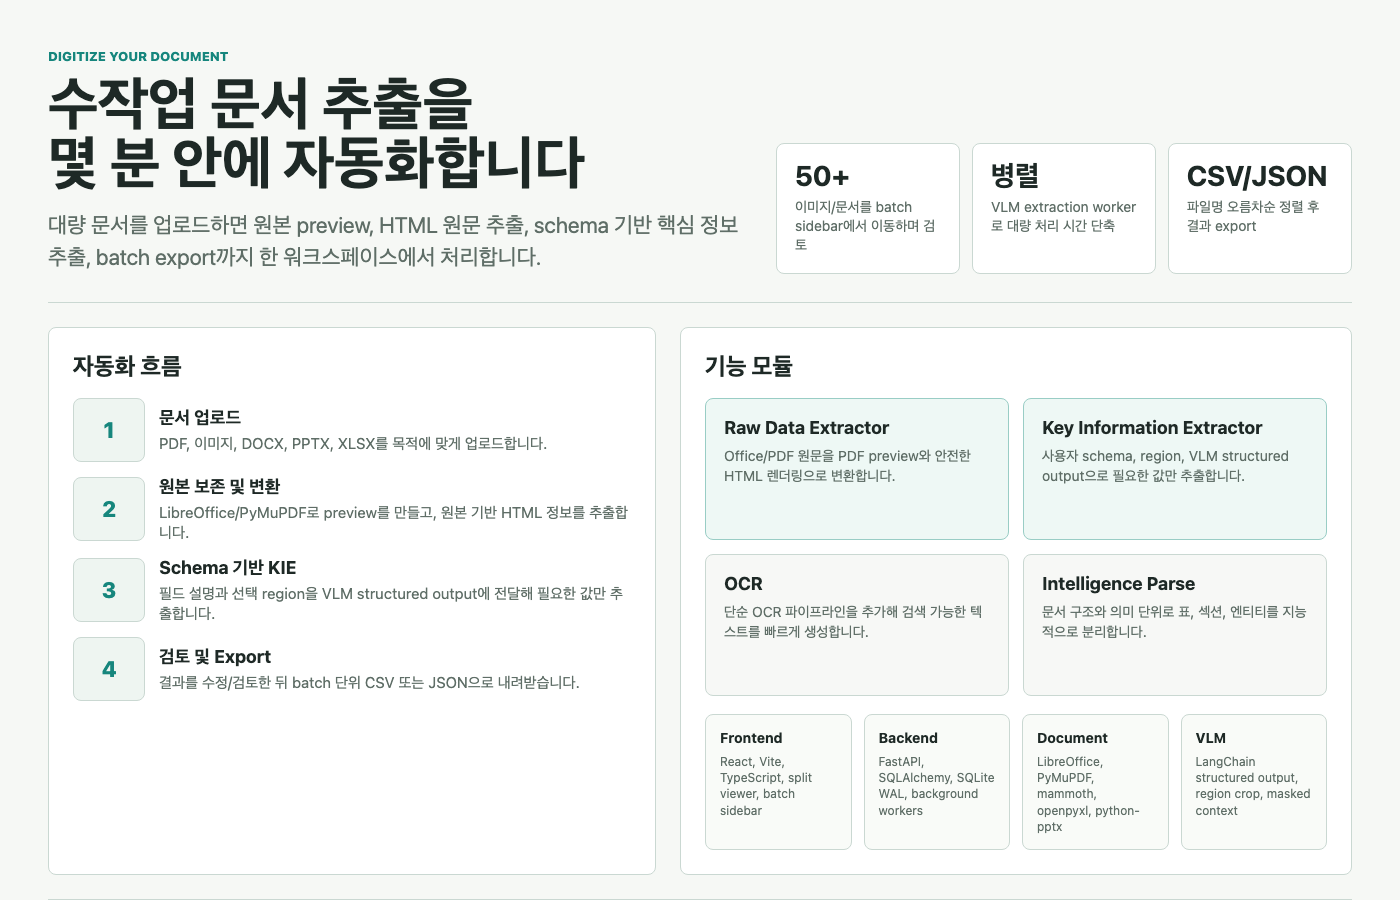
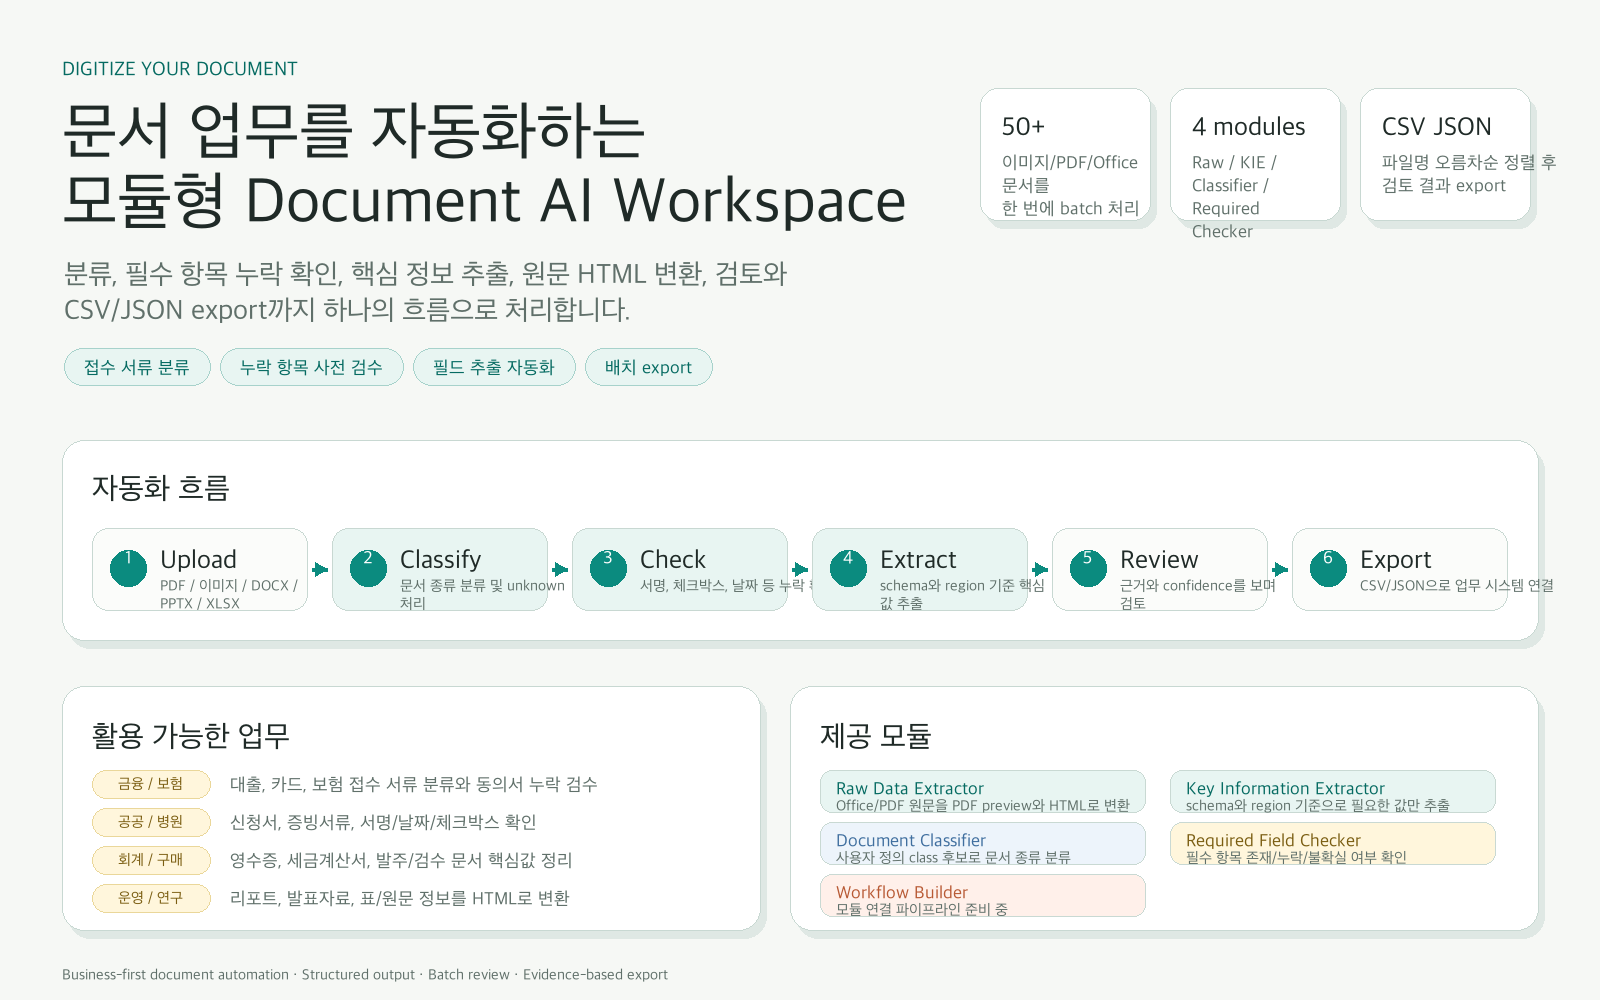
Refresh README business overview

diff --git a/README.md b/README.md
@@ -1,22 +1,45 @@
 <div align="center">
   <h1>Digitize Your Document</h1>
-  <p><b>대용량 문서에서 사람이 반복해서 찾던 값을 업로드, 추출, 검토, 정렬 export까지 자동화하는 워크스페이스</b></p>
+  <p><b>반복적인 문서 접수, 분류, 누락 검수, 핵심 정보 추출, 결과 정리를 한 화면에서 자동화합니다.</b></p>
   <p>
-    <code>React</code>
-    <code>Vite</code>
-    <code>TypeScript</code>
-    <code>FastAPI</code>
-    <code>SQLite</code>
-    <code>LangChain</code>
-    <code>LibreOffice</code>
-    <code>PyMuPDF</code>
+    <code>문서 접수 자동화</code>
+    <code>필수 항목 누락 검수</code>
+    <code>문서 종류 분류</code>
+    <code>핵심 정보 추출</code>
+    <code>배치 CSV/JSON export</code>
   </p>
 </div>
 
 ![Digitize Your Document Overview](assets/readme_overview.png)
 
+## 어디에 활용할 수 있나
+
+대량 문서를 사람이 열어 보고, 어떤 문서인지 나누고, 비어 있는 항목을 확인하고, 필요한 값을 엑셀로 옮기는 업무에 바로 적용할 수 있습니다.
+
+| 활용 영역 | 자동화할 수 있는 일 | 기대 효과 |
+| --- | --- | --- |
+| 금융/보험 접수 | 신청서, 동의서, 신분/소득 증빙 분류와 필수 서명/체크박스 누락 확인 | 접수 반려와 재요청 시간을 줄입니다. |
+| 공공/병원/교육 서류 | 신청서 유형 분류, 작성일/성명/서명/첨부 여부 확인 | 담당자 검수 대기열을 빠르게 정리합니다. |
+| 회계/구매/정산 | 영수증, 세금계산서, 발주서, 검수 문서의 핵심값 추출 | 수기 입력과 파일명별 취합 작업을 줄입니다. |
+| 운영/연구 문서 | PDF, PPTX, DOCX, XLSX 원문을 HTML로 변환하고 필요한 표/문장을 확인 | 검색 가능한 내부 자료화와 검토 속도를 높입니다. |
+| 대량 백오피스 처리 | 50장 이상 파일을 한 번에 업로드하고 결과를 검수/export | 반복 클릭과 엑셀 정리 시간을 줄입니다. |
+
+## 업무 자동화 범위
+
+Digitize Your Document를 사용하면 대량 문서에서 수작업으로 값을 확인하던 업무를 몇 분 단위의 자동 처리로 바꿀 수 있습니다.
+
+| 자동화 대상 | 처리 방식 | 결과 |
+| --- | --- | --- |
+| 대량 이미지/PDF에서 특정 값 추출 | 사용자 schema + 선택 region + VLM structured output | 파일명 기준 정렬 CSV/JSON |
+| 문서 종류 분류 | 사용자가 정의한 class 후보 + unknown 허용 | 파일별 class, confidence, evidence |
+| 필수 항목 누락 확인 | checklist + evidence type + optional region | complete/incomplete/needs_review |
+| DOCX/PPTX/PDF 원문 확인 | LibreOffice/PyMuPDF preview + Python parser | PDF preview + HTML 원문 |
+| 50장 이상 반복 검토 | Batch sidebar + progress polling + result review | 항목별 검토와 batch export |
+| 손글씨/복잡한 레이아웃 보조 | full page context + masked page + enlarged crop | region 기반 집중 추출 |
+
 ## 2026-05-21 변경 사항
 
+- README 상단 이미지를 최신 모듈 구조와 비즈니스 활용 중심으로 교체했습니다.
 - GitHub에 올라가는 문서를 `README.md`, `DEVELOPMENT_DEFINITION.md`, `ERROR_NOTE.md` 중심으로 정리했습니다. 로컬 이해용 HTML과 디자인 기록은 저장소에 올리지 않습니다.
 - `.gitignore`를 default-deny 방식으로 바꿨습니다. 모든 파일을 먼저 무시하고, 제품 실행에 필요한 source/config/docs/assets만 `!` allowlist로 추적합니다.
 - 표로 표현 가능한 설정/결과 UI는 KIE field table 스타일로 통일합니다. Document Classifier의 class 후보, Required Field Checker의 checklist item, 결과/review table도 같은 문법을 따릅니다.
@@ -34,21 +57,6 @@
 - Batch progress polling은 active batch를 1초 간격으로 직접 조회하고, API cache를 끄도록 보강했습니다.
 - SQLite는 WAL과 busy timeout을 적용해 batch worker와 polling read가 겹칠 때의 잠금 대기를 줄였습니다.
 - README와 개발정의서를 “업무 자동화 가치 → 기술 세부사항” 흐름으로 재정리했습니다.
-
-## 할 수 있는 일
-
-Digitize Your Document를 사용하면 대량 문서에서 수작업으로 값을 확인하던 업무를 몇 분 단위의 자동 처리로 바꿀 수 있습니다.
-
-| 자동화 대상 | 처리 방식 | 결과 |
-| --- | --- | --- |
-| 대량 이미지/PDF에서 특정 값 추출 | 사용자 schema + 선택 region + VLM structured output | 파일명 기준 정렬 CSV/JSON |
-| 문서 종류 분류 | 사용자가 정의한 class 후보 + unknown 허용 | 파일별 class, confidence, evidence |
-| 필수 항목 누락 확인 | checklist + evidence type + optional region | complete/incomplete/needs_review |
-| DOCX/PPTX/PDF 원문 확인 | LibreOffice/PyMuPDF preview + Python parser | PDF preview + HTML 원문 |
-| 50장 이상 반복 검토 | Batch sidebar + progress polling + result review | 항목별 검토와 batch export |
-| 손글씨/복잡한 레이아웃 보조 | full page context + masked page + enlarged crop | region 기반 집중 추출 |
-
-![KIE VLM 작동 원리](assets/vlm_runtime_overview.png)
 
 ## 기능
 
@@ -256,6 +264,8 @@ Raw API:
 Region field는 VLM 입력 시 두 이미지를 함께 사용합니다. 하나는 region 외부를 흐리게 만든 원본 page context이고, 다른 하나는 실제 판독용 crop입니다. 따라서 description에 “우측 하단” 같은 위치 표현이 있어도 원본 page 위치 맥락과 crop 집중도를 함께 제공합니다.
 
 KIE 추출은 group 단위로 나뉩니다. `region_id`가 없는 field들은 full-page group 1회로 추출하고, `region_id`가 있는 field들은 사용 중인 region별로 묶어 각각 추출합니다. 따라서 호출 수는 `full-page field가 있으면 1회 + 사용 중인 region 수`입니다.
+
+![KIE VLM 작동 원리](assets/vlm_runtime_overview.png)
 
 KIE 결과 확인 후 다른 문서를 다시 로드하려면 좌측 Document toolbar의 `Replace`를 사용합니다. 현재 schema는 유지하고 문서/결과만 교체됩니다. `Clear`는 현재 문서와 결과를 비우고 업로드 화면으로 돌아갑니다.
 
